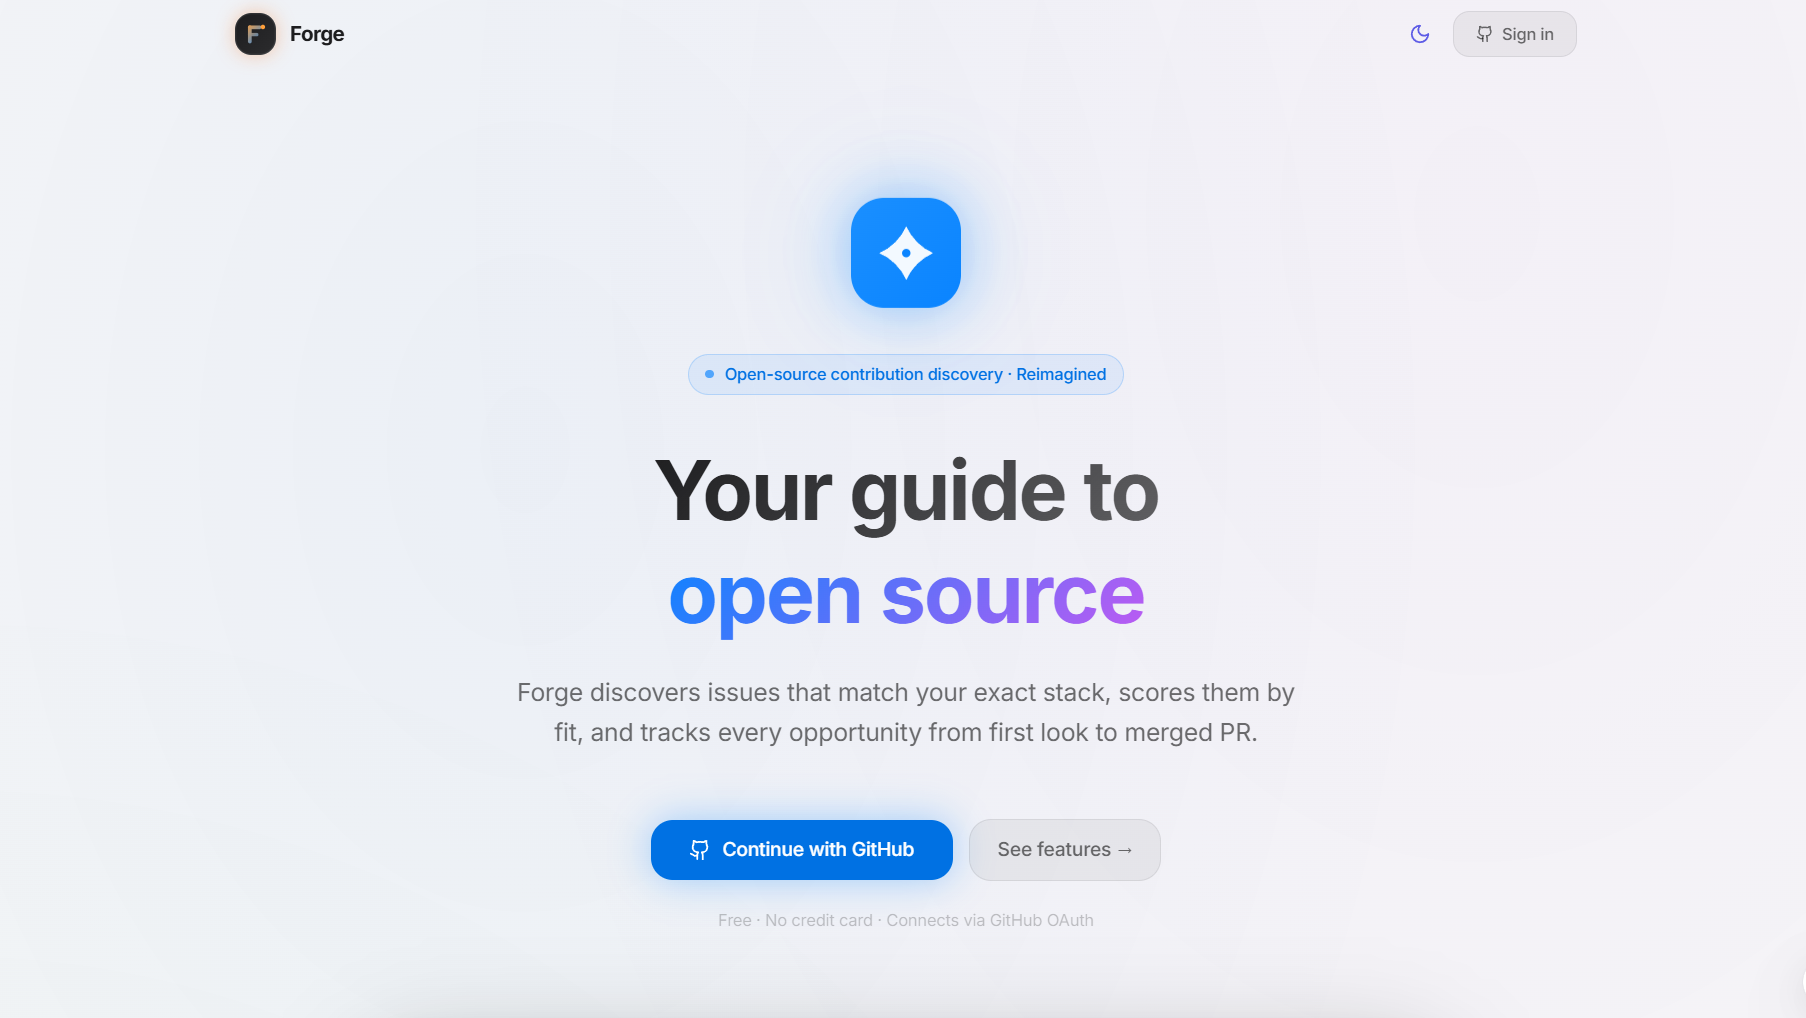
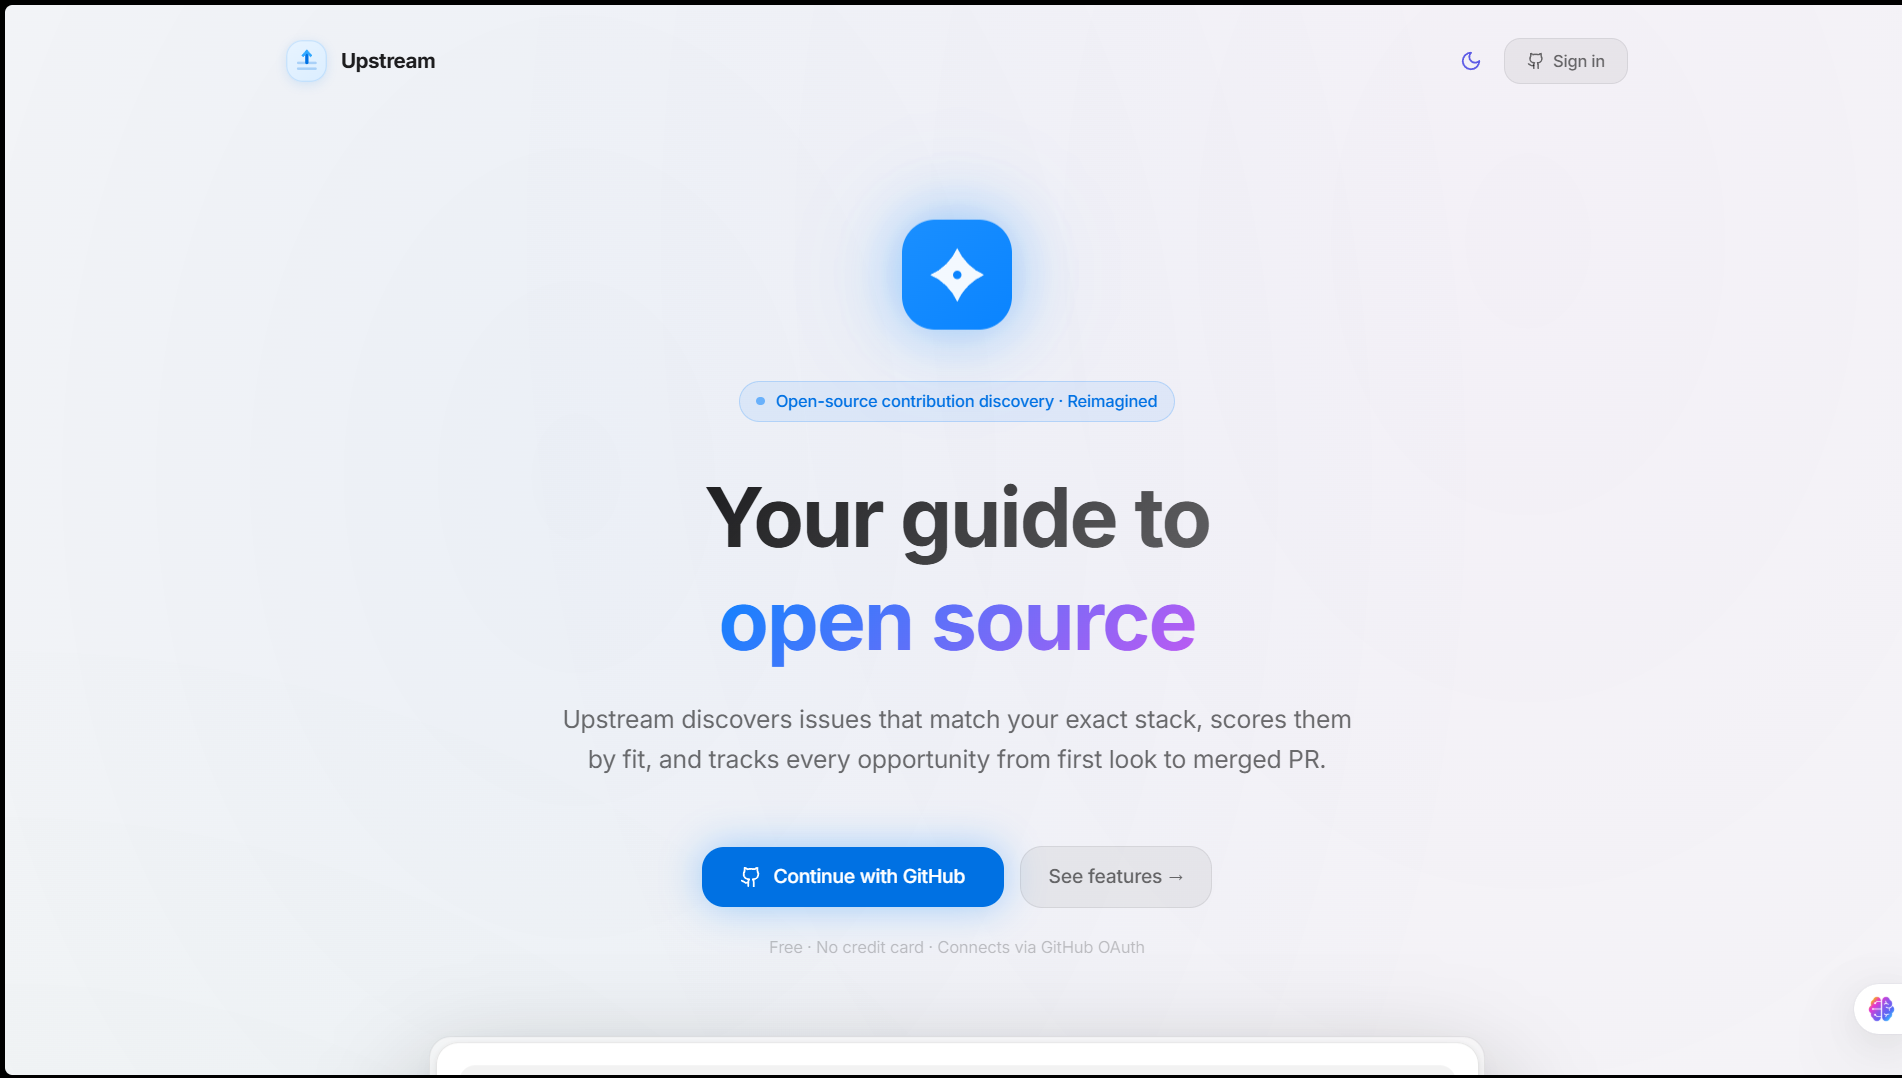
Updated Upstream Project Card

diff --git a/src/components/Projects.tsx b/src/components/Projects.tsx
@@ -10,7 +10,7 @@ interface ProjectsProps { theme: "dark" | "light"; }
 
 // ── Gradient fallbacks (shown when no screenshot file exists) ──────────────
 const FALLBACK_GRADIENTS: Record<string, string> = {
-  "forge":         "linear-gradient(135deg, #0d1117 0%, #1a3a6e 50%, #0d1117 100%)",
+  "UpStream":         "linear-gradient(135deg, #0d1117 0%, #1a3a6e 50%, #0d1117 100%)",
   "urban-heat":    "linear-gradient(135deg, #003d1f 0%, #00994d 50%, #004d28 100%)",
   "cryptex":       "linear-gradient(135deg, #0d1b2a 0%, #1b3a5c 50%, #0a1628 100%)",
   "automata-lab":  "linear-gradient(135deg, #1a0a2e 0%, #4a1f8c 50%, #2d0f5e 100%)",